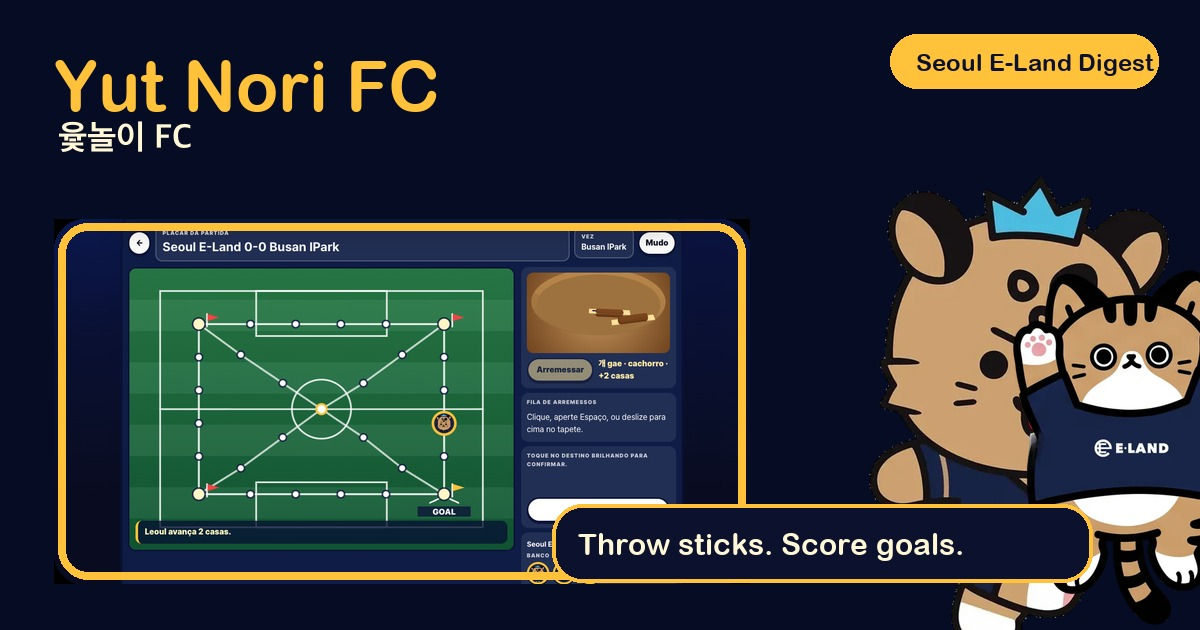
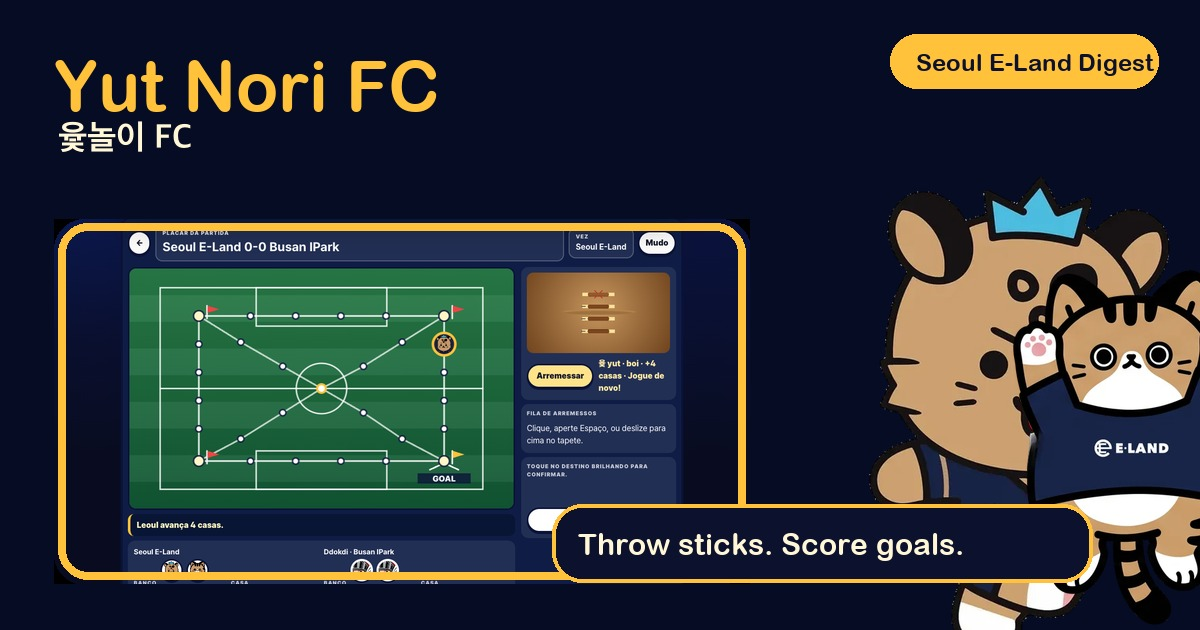
Finish Yut Nori FC polish pass
Copilot-Session: 30f9cc71-a23c-44b1-848c-ede5d2d6a253

Changed region(s): [[0.0925, 0.4524, 0.555, 0.9349], [0.4317, 0.5429, 0.555, 0.754], [0.4317, 0.3619, 0.555, 0.5429]]

diff --git a/site/src/yut/throwScene.ts b/site/src/yut/throwScene.ts
@@ -22,10 +22,10 @@ export class YutThrowScene {
   private webgl = false;
   private ctx: CanvasRenderingContext2D | null = null;
   private poses: StickPose[] = [
-    { x: -1.45, y: 0, rot: -0.1, flat: false, marked: true },
-    { x: -0.48, y: 0.03, rot: 0.08, flat: false, marked: false },
-    { x: 0.5, y: -0.02, rot: -0.06, flat: false, marked: false },
-    { x: 1.48, y: 0.04, rot: 0.11, flat: false, marked: false },
+    { x: 0, y: 0, rot: 0, flat: false, marked: true },
+    { x: 0, y: 0.03, rot: 0, flat: false, marked: false },
+    { x: 0, y: -0.02, rot: 0, flat: false, marked: false },
+    { x: 0, y: 0.04, rot: 0, flat: false, marked: false },
   ];
 
   constructor(private readonly canvas: HTMLCanvasElement) {
@@ -97,9 +97,9 @@ export class YutThrowScene {
         const t = Math.min(1, (performance.now() - start) / 1160);
         const ease = 1 - (1 - t) ** 3;
         this.poses = final.map((flat, i) => ({
-          x: (i - 1.5) * 0.98 + Math.sin(t * 9 + i) * 0.28 * (1 - ease),
+          x: Math.sin(t * 9 + i) * 0.28 * (1 - ease),
           y: Math.sin(Math.PI * t) * (1.05 + i * 0.08) + Math.sin(t * 18 + i) * 0.05 * (1 - t),
-          rot: -0.18 + i * 0.12 + Math.sin(t * 10 + i) * 0.75 * (1 - ease),
+          rot: Math.sin(t * 10 + i) * 0.75 * (1 - ease),
           flat,
           marked: i === 0,
         }));
@@ -119,8 +119,8 @@ export class YutThrowScene {
   private initThree(THREE: Three): void {
     this.renderer = new THREE.WebGLRenderer({ canvas: this.canvas, antialias: true, alpha: true });
     this.scene = new THREE.Scene();
-    this.camera = new THREE.PerspectiveCamera(38, 1, 0.1, 100);
-    this.camera.position.set(0, 4.25, 3.45);
+    this.camera = new THREE.PerspectiveCamera(42, 1, 0.1, 100);
+    this.camera.position.set(0, 8.6, 0.65);
     this.camera.lookAt(0, 0, 0);
     this.scene.add(new THREE.HemisphereLight(0xfff3d7, 0x4a2b10, 2.4));
     const key = new THREE.DirectionalLight(0xffffff, 1.35);
@@ -142,23 +142,23 @@ export class YutThrowScene {
     const flat = new THREE.MeshToonMaterial({ color: 0xf6d69f });
     const mark = new THREE.MeshBasicMaterial({ color: 0xcc1f2f });
     const eland = new THREE.MeshBasicMaterial({ color: 0x1b2446 });
-    const body = new THREE.Mesh(new THREE.CapsuleGeometry(0.16, 1.85, 8, 14), bark);
+    const body = new THREE.Mesh(new THREE.CapsuleGeometry(0.16, 2.65, 8, 14), bark);
     body.scale.set(1.25, 0.58, 1);
     body.rotation.z = Math.PI / 2;
     g.add(body);
-    const face = new THREE.Mesh(new THREE.BoxGeometry(1.82, 0.03, 0.27), flat);
+    const face = new THREE.Mesh(new THREE.BoxGeometry(2.58, 0.03, 0.27), flat);
     face.position.y = -0.087;
     g.add(face);
     if (i === 0) {
       for (const r of [Math.PI / 4, -Math.PI / 4]) {
-        const x = new THREE.Mesh(new THREE.BoxGeometry(0.82, 0.036, 0.05), mark);
+        const x = new THREE.Mesh(new THREE.BoxGeometry(0.92, 0.036, 0.05), mark);
         x.position.y = -0.112;
         x.rotation.y = r;
         g.add(x);
       }
     } else {
-      const badge = new THREE.Mesh(new THREE.BoxGeometry(0.28, 0.034, 0.05), eland);
-      badge.position.set(-0.62, -0.112, 0);
+      const badge = new THREE.Mesh(new THREE.BoxGeometry(0.32, 0.034, 0.05), eland);
+      badge.position.set(-1.18, -0.112, 0);
       g.add(badge);
     }
     this.scene!.add(g);
@@ -170,7 +170,7 @@ export class YutThrowScene {
     for (let i = 0; i < this.sticks.length; i++) {
       const pose = this.poses[i];
       const stick = this.sticks[i];
-      stick.position.set(pose.x, 0.18 + pose.y, (i - 1.5) * 0.32);
+      stick.position.set(pose.x, 0.18 + pose.y, (i - 1.5) * 0.98);
       stick.rotation.set((pose.flat ? Math.PI : 0) * ease + (1 - ease) * (5.5 + i), pose.rot * 0.2, pose.rot);
     }
     this.renderer.render(this.scene, this.camera);
@@ -190,37 +190,37 @@ export class YutThrowScene {
     ctx.fillRect(0, 0, w, h);
     ctx.save();
     ctx.translate(w / 2, h * 0.58);
-    ctx.scale(Math.min(w / 5.8, h / 3.2), Math.min(w / 5.8, h / 3.2));
+    ctx.scale(Math.min(w / 5.8, h / 3.4), Math.min(w / 5.8, h / 3.4));
     ctx.fillStyle = "rgba(255, 238, 184, .22)";
     ctx.beginPath();
     ctx.ellipse(0, 0.2, 2.65, 1.05, 0, 0, Math.PI * 2);
     ctx.fill();
-    for (let i = 0; i < this.poses.length; i++) this.drawStick2d(ctx, this.poses[i]);
+    for (let i = 0; i < this.poses.length; i++) this.drawStick2d(ctx, this.poses[i], i);
     ctx.restore();
   }
 
-  private drawStick2d(ctx: CanvasRenderingContext2D, pose: StickPose): void {
+  private drawStick2d(ctx: CanvasRenderingContext2D, pose: StickPose, lane: number): void {
     ctx.save();
-    ctx.translate(pose.x, -pose.y * 0.7);
+    ctx.translate(pose.x, (lane - 1.5) * 0.48 - pose.y * 0.7);
     ctx.rotate(pose.rot);
     ctx.fillStyle = pose.flat ? "#f6d69f" : "#73431f";
     ctx.strokeStyle = "#2b1607";
     ctx.lineWidth = 0.04;
-    this.roundRect(ctx, -0.58, -0.12, 1.16, 0.24, 0.12);
+    this.roundRect(ctx, -1.45, -0.12, 2.9, 0.24, 0.12);
     ctx.fill();
     ctx.stroke();
     if (pose.marked) {
       ctx.strokeStyle = "#cc1f2f";
       ctx.lineWidth = 0.045;
       ctx.beginPath();
-      ctx.moveTo(-0.25, -0.08);
-      ctx.lineTo(0.25, 0.08);
-      ctx.moveTo(0.25, -0.08);
-      ctx.lineTo(-0.25, 0.08);
+      ctx.moveTo(-0.35, -0.08);
+      ctx.lineTo(0.35, 0.08);
+      ctx.moveTo(0.35, -0.08);
+      ctx.lineTo(-0.35, 0.08);
       ctx.stroke();
     } else if (pose.flat) {
       ctx.fillStyle = "#1b2446";
-      ctx.fillRect(-0.45, -0.025, 0.18, 0.05);
+      ctx.fillRect(-1.12, -0.025, 0.22, 0.05);
     }
     ctx.restore();
   }

diff --git a/site/src/yut/i18n.ts b/site/src/yut/i18n.ts
@@ -45,6 +45,7 @@ export interface YutStrings {
   scoreboard: string;
   throw: string;
   throwHint: string;
+  touchThrowHint: string;
   throwAgain: string;
   queue: string;
   bench: string;
@@ -133,6 +134,7 @@ export const YUT_STRINGS: Record<Locale, YutStrings> = {
     scoreboard: "Match score",
     throw: "Throw",
     throwHint: "Click, press Space, or flick up on the mat.",
+    touchThrowHint: "Tap Throw or flick up on the mat.",
     throwAgain: "Throw again!",
     queue: "Throw queue",
     bench: "Bench",
@@ -226,6 +228,7 @@ export const YUT_STRINGS: Record<Locale, YutStrings> = {
     scoreboard: "Placar da partida",
     throw: "Arremessar",
     throwHint: "Clique, aperte Espaço, ou deslize para cima no tapete.",
+    touchThrowHint: "Toque em Arremessar ou deslize para cima no tapete.",
     throwAgain: "Jogue de novo!",
     queue: "Fila de arremessos",
     bench: "Banco",

diff --git a/site/src/yut/main.ts b/site/src/yut/main.ts
@@ -312,7 +312,7 @@ export function mountYutNori(root: HTMLElement): void {
       button.title = `${copy.roman}, ${copy.meaning}, ${info.steps}`;
       queue.append(button);
     }
-    if (!state.queue.length) queue.textContent = state.mustThrow ? t.throwHint : t.noMoves;
+    if (!state.queue.length) queue.textContent = state.mustThrow ? (coarse ? t.touchThrowHint : t.throwHint) : t.noMoves;
   };
 
   const renderMoveButtons = () => {
@@ -1030,6 +1030,13 @@ export function mountYutNori(root: HTMLElement): void {
         state.mustThrow = false;
         selectedThrow = id;
         render();
+      },
+      showThrow: async (id: ThrowId) => {
+        screen("play");
+        ensureThrower();
+        resultCard = resultText(id);
+        render();
+        await thrower!.animate(THROW_INFO[id]);
       },
       captureSetup: () => {
         state = newGame(44);
